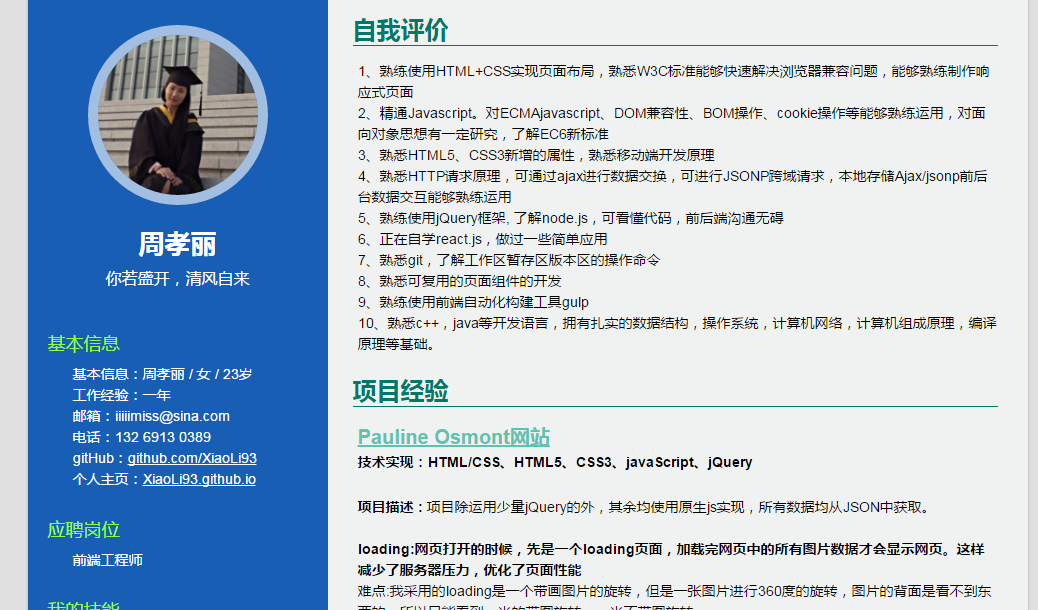
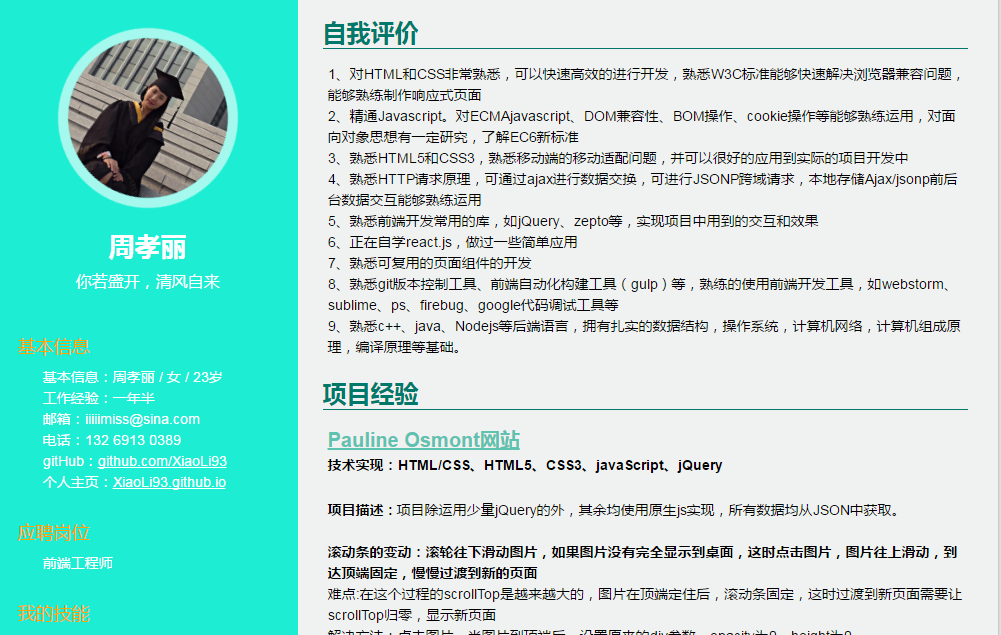
first

diff --git a/resume/index.html b/resume/index.html
@@ -29,7 +29,7 @@
             <h3 class="title">基本信息</h3>
             <ul>
                 <li>基本信息：周孝丽 / 女 / 23岁</li>
-                <li>工作经验：一年</li>
+                <li>工作经验：一年半</li>
                 <li>邮箱：iiiiimiss@sina.com</li>
                 <li>电话：132 6913 0389</li>
                 <li>gitHub：<a href="https://github.com/XiaoLi93" target="_blank">github.com/XiaoLi93</a></li>
@@ -48,13 +48,13 @@
                 <li>
                     <div class="skill-name">HTML+CSS</div>
                     <div class="skill-bar" title="精通">
-                        <span style="width: 90%;"></span>
+                        <span style="width: 85%;"></span>
                     </div>
                 </li>
                 <li>
                     <div class="skill-name">JavaScript</div>
                     <div class="skill-bar" title="熟悉">
-                        <span style="width: 90%;"></span>
+                        <span style="width: 85%;"></span>
                     </div>
                 </li>
                 <li>
@@ -66,7 +66,7 @@
                 <li>
                     <div class="skill-name">CSS3</div>
                     <div class="skill-bar" title="熟悉">
-                        <span style="width: 80%;"></span>
+                        <span style="width: 75%;"></span>
                     </div>
                 </li>
                 <li>
@@ -78,7 +78,7 @@
                 <li>
                     <div class="skill-name">其他</div>
                     <div class="skill-bar" title="熟悉">
-                        <span style="width: 30%;"></span>
+                        <span style="width: 45%;"></span>
                     </div>
                 </li>
             </ul>
@@ -96,17 +96,17 @@
     <div class="main">
     	<div class="introduce">
     		<h3 class="title">自我评价</h3>
+            
     		<p>
-    			1、熟练使用HTML+CSS实现页面布局，熟悉W3C标准能够快速解决浏览器兼容问题，能够熟练制作响应式页面<br />
+    			1、对HTML和CSS非常熟悉，可以快速高效的进行开发，熟悉W3C标准能够快速解决浏览器兼容问题，能够熟练制作响应式页面<br />
 				2、精通Javascript。对ECMAjavascript、DOM兼容性、BOM操作、cookie操作等能够熟练运用，对面向对象思想有一定研究，了解EC6新标准<br />
-				3、熟悉HTML5、CSS3新增的属性，熟悉移动端开发原理<br />
+				3、熟悉HTML5和CSS3，熟悉移动端的移动适配问题，并可以很好的应用到实际的项目开发中<br />
 				4、熟悉HTTP请求原理，可通过ajax进行数据交换，可进行JSONP跨域请求，本地存储Ajax/jsonp前后台数据交互能够熟练运用<br />
-				5、熟练使用jQuery框架, 了解node.js，可看懂代码，前后端沟通无碍<br />
+				5、熟悉前端开发常用的库，如jQuery、zepto等，实现项目中用到的交互和效果<br />
 				6、正在自学react.js，做过一些简单应用<br />
-				7、熟悉git，了解工作区暂存区版本区的操作命令<br />
-				8、熟悉可复用的页面组件的开发<br />
-				9、熟练使用前端自动化构建工具gulp<br />
-                10、熟悉c++，java等开发语言，拥有扎实的数据结构，操作系统，计算机网络，计算机组成原理，编译原理等基础。
+				7、熟悉可复用的页面组件的开发<br />
+                8、熟悉git版本控制工具、前端自动化构建工具（gulp）等，熟练的使用前端开发工具，如webstorm、sublime、ps、firebug、google代码调试工具等<br />
+                9、熟悉c++、java、Nodejs等后端语言，拥有扎实的数据结构，操作系统，计算机网络，计算机组成原理，编译原理等基础。
     		</p> <br />  		
     	</div>
         <!-- 项目经验 -->
@@ -118,9 +118,6 @@
                 <p><br />
                     <b>项目描述 :</b>
                     项目除运用少量jQuery的外，其余均使用原生js实现，所有数据均从JSON中获取。<br /><br />
-                    <b>loading:网页打开的时候，先是一个loading页面，加载完网页中的所有图片数据才会显示网页。这样减少了服务器压力，优化了页面性能</b><br />
-                    难点:我采用的loading是一个带画图片的旋转，但是一张图片进行360度的旋转，图片的背面是看不到东西的，所以只能看到一半的带图旋转，一半不带图旋转<br />
-                    解决方法：用两张图实现这个效果，一张图在正面，一张图起始位置在旋转180度位置上，然后分时运动，造成一张图片360度旋转的假象<br /><br />
 
                     <b>滚动条的变动：滚轮往下滑动图片，如果图片没有完全显示到桌面，这时点击图片，图片往上滑动，到达顶端固定，慢慢过渡到新的页面</b><br />
                     难点:在这个过程的scrollTop是越来越大的，图片在顶端定住后，滚动条固定，这时过渡到新页面需要让scrollTop归零，显示新页面<br />
@@ -134,17 +131,12 @@
                     难点:动态的添加删除class，同时存在class过多不好获取的问题<br />
                     解决方法：用正则写一个匹配函数，专门用来查找class，同时封装添加、删除class的函数，本页面中使用非常频繁<br /><br />
 
-                    <b>gradient 渐变：页面中经常会出现进度条，一般我们的做法是用一张雪碧图，然后改变它的背景色来实现，或者用div然后通过transition改变它的宽度，但是还有一种方法就是线性渐变。</b><br />
-                    难点:一般我们见到的线性渐变用于实现两种颜色的渐变效果，不常切断颜色渐变<br />
-                    解决方法：设置颜色所占比例时，渐变色的比例设置应该相同<br /><br />
 
                     <b>图片懒加载</b><br />
                     难点:图片的排列是不规律的，需要根据每张图片自身判断，并且放在一个div中绝对定位，不可以通过top获取与网页上边框的距离<br />
                     解决方法：判断元素与网页上边框的距离可以通过getBoundingClientRect().top，如果它等于可视区的距离，即当图片马上要出现在页面，这时我们就可以进行操作了<br /><br />
 
                     <b>数据渲染：本页面中的图片，文字等数据全是从json文件中请求，动态添加到页面中。使html代码结构变得简单，seo搜索引擎爬取数据更方便。大大减少了重复的代码结构，使页面完成静态到动态的转变。</b><br />
-                    难点:数据结构和html代码结构不一样。渲染困难<br />
-                    解决方法：从数据开始的位置找到相应的dom节点，拼接到数据结束位置<br /><br />
 
                     动态打开书本效果: 鼠标移动到图片位置上时，显示打开书本效果，这个效果是由两个div实现的，一左一右，左边的顺时针旋转90度，右边的逆时针旋转90度，他们的初始位置都在原来的基础上旋转180度，即垂直于我们的视线，原理和loading相同，不过注意点要多一些。<br /><br />
 
@@ -213,13 +205,25 @@
             <h3 class="title">工作经历</h3>
             <div class="item">
                 <h4> 软通动力信息技术（集团）有限公司</h4>
-                <h5 class="time">2015年07月至2016年07月<span>前端工程师</span></h5>
-                <p>1.   早期和客户、设计师沟通，做好前期工作</p>
-                <p>2.   对设计稿尽量进行百分百的还原，制作网页效果，并兼容各大主流的浏览器，给访客呈现更好的视觉效果。</p>
-                <p>3.   对PC端网站进行维护、优化，写出更符合语义化和W3C标准的代码，进行网站的SEO工作。</p>
+                <h5 class="time">2015年09月至2016年08月<span>前端工程师</span></h5>
+                <p>1.   负责公司承接网站的前端工作，对PC网站和移动端网站进行制作、维护、优化，写出更符合语义化和W3C标准的代码，对网站进行优化，并进行网站的SEO工作。</p>
+                <p>2.    配合设计师的工作，对设计稿尽量进行百分百的还原，网页效果的制作，并兼容各大主流的浏览器，给访客呈现更好的视觉效果。</p>
+                <p>3.  早期配合后端进行网站模板的制作，并配合后端做相关功能的开发，可以读懂后端代码和简单的数据库操作语句。</p>
+                 <p>4.  和客户沟通，按照客户要求对网站进行相应的修改。</p>
         
             </div>
+            <div class="item">
+                <h4> 软通动力信息技术（集团）有限公司</h4>
+                <h5 class="time">2015年03月至2015年09月<span>程序员</span></h5>
+                <p>1.   前期做java开发，根据客户需求编写软件</p>
+                <p>2.   后期负责公司软件页面的编写、调试。</p>
+                <p>3.   配合后端程序完成网站功能的实现。</p>
+        
+            </div>
+
+
         </div>
+
     </div>
 </section>
 

diff --git a/resume/css/index.css b/resume/css/index.css
@@ -111,7 +111,7 @@ body {
   float: left;
   width: 300px;
   padding: 0 20px;
-  background-color: #185eb5;
+  background-color: #1deed3;
   padding-bottom: 10000px;
   margin-bottom: -10000px;
   -webkit-box-sizing: border-box;
@@ -121,7 +121,7 @@ body {
     font-size: 18px;
     line-height: 40px;
     font-weight: normal;
-    color: #9f3; }
+    color: orange; }
 
 .header {
   width: 160px;
@@ -186,7 +186,7 @@ body {
     top: 0;
     left: 0;
     height: 100%;
-    background-color: #1deed3;
+    background-color: blue;
     border-radius: 20px 0 0 20px; }
 
 .describe {
@@ -194,7 +194,7 @@ body {
   padding-bottom: 40px;
   font-size: 16px;
   line-height: 1.5;
-  color: #e3d8d8;
+  color: #fff;
   text-indent: 2em;
   text-align: justify; }
   .describe p {
